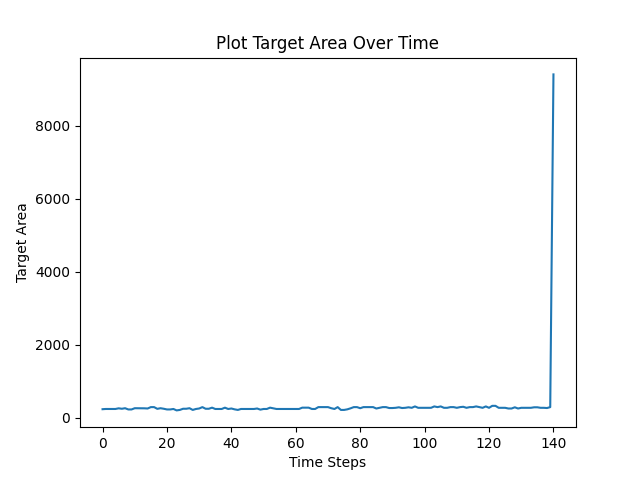
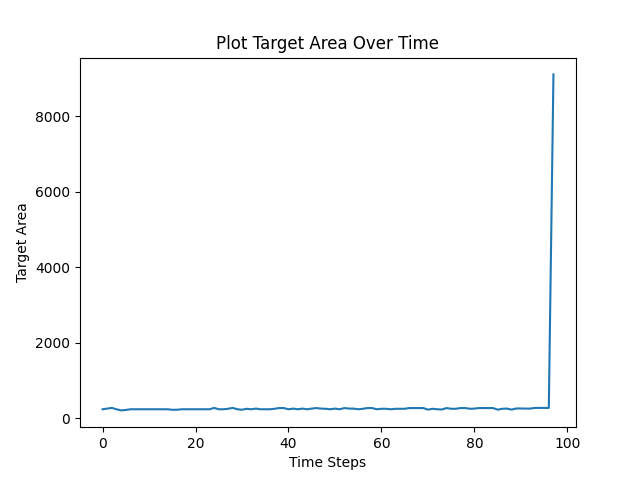
feat: update in test plot

diff --git a/controllers/main/VisuoExcaRobo.py b/controllers/main/VisuoExcaRobo.py
@@ -294,15 +294,15 @@ class VisuoExcaRobo:
         # Plot the results
         self.plot_results("test_1", reward_list, "Reward", "Plot Reward Over Time")
         self.plot_results(
-            "test_2", deviation_x_list, "Deviation X", "Plot Deviation X Over Time"
+            "test_1", deviation_x_list, "Deviation X", "Plot Deviation X Over Time"
         )
         self.plot_results(
-            "test_2", deviation_y_list, "Deviation Y", "Plot Deviation Y Over Time"
+            "test_1", deviation_y_list, "Deviation Y", "Plot Deviation Y Over Time"
         )
         self.plot_results(
-            "test_2", target_area_list, "Target Area", "Plot Target Area Over Time"
+            "test_1", target_area_list, "Target Area", "Plot Target Area Over Time"
         )
-        self.plot_trajectory("test_2", position_list)
+        self.plot_trajectory("test_1", position_list)
     
     def test_2(
         self, max_steps: int = 3000, model_dir: str = None

diff --git a/controllers/main/Color_VisuoExcaRobo.py b/controllers/main/Color_VisuoExcaRobo.py
@@ -18,8 +18,8 @@ except ImportError:
 
 # Constants used in the environment
 ENV_ID = "Color_VisuoExcaRobo"
-OBS_SPACE_SCHEMA = 1  # 1: coordinates of the target, 2: pure image
-REWARD_SCHEMA = 2  # 1: reward function based on pixel position, 2: reward function based on distance
+OBS_SPACE_SCHEMA = 2  # 1: coordinates of the target, 2: pure image
+REWARD_SCHEMA = 1  # 1: reward function based on pixel position, 2: reward function based on distance
 MAX_EPISODE_STEPS = 2000
 MAX_WHEEL_SPEED = 5.0
 MAX_MOTOR_SPEED = 0.7
